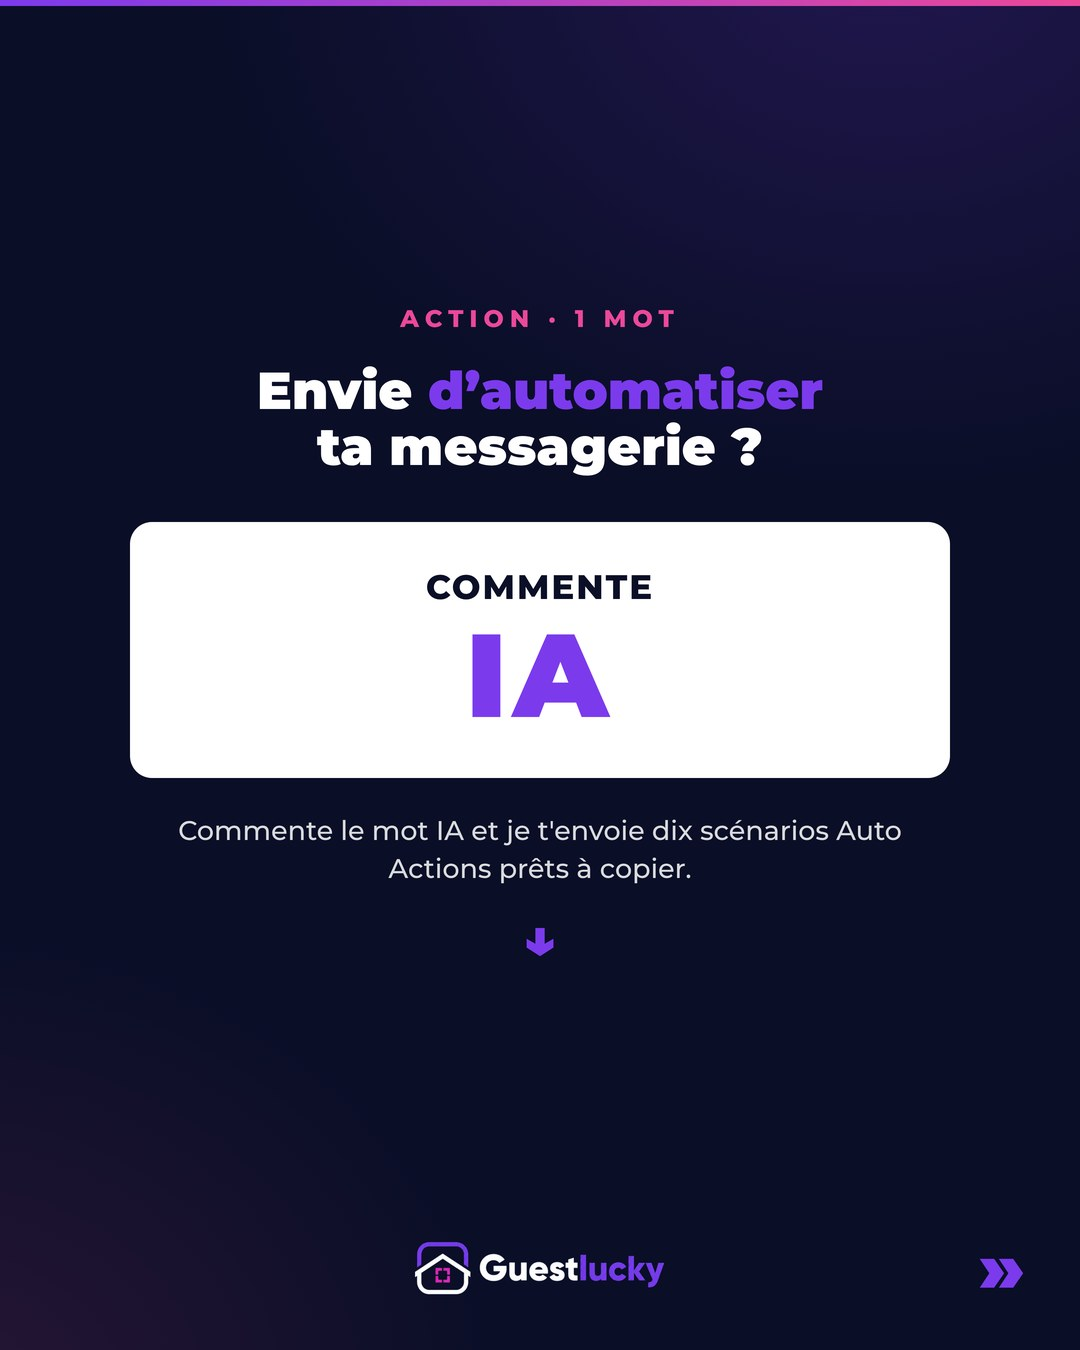
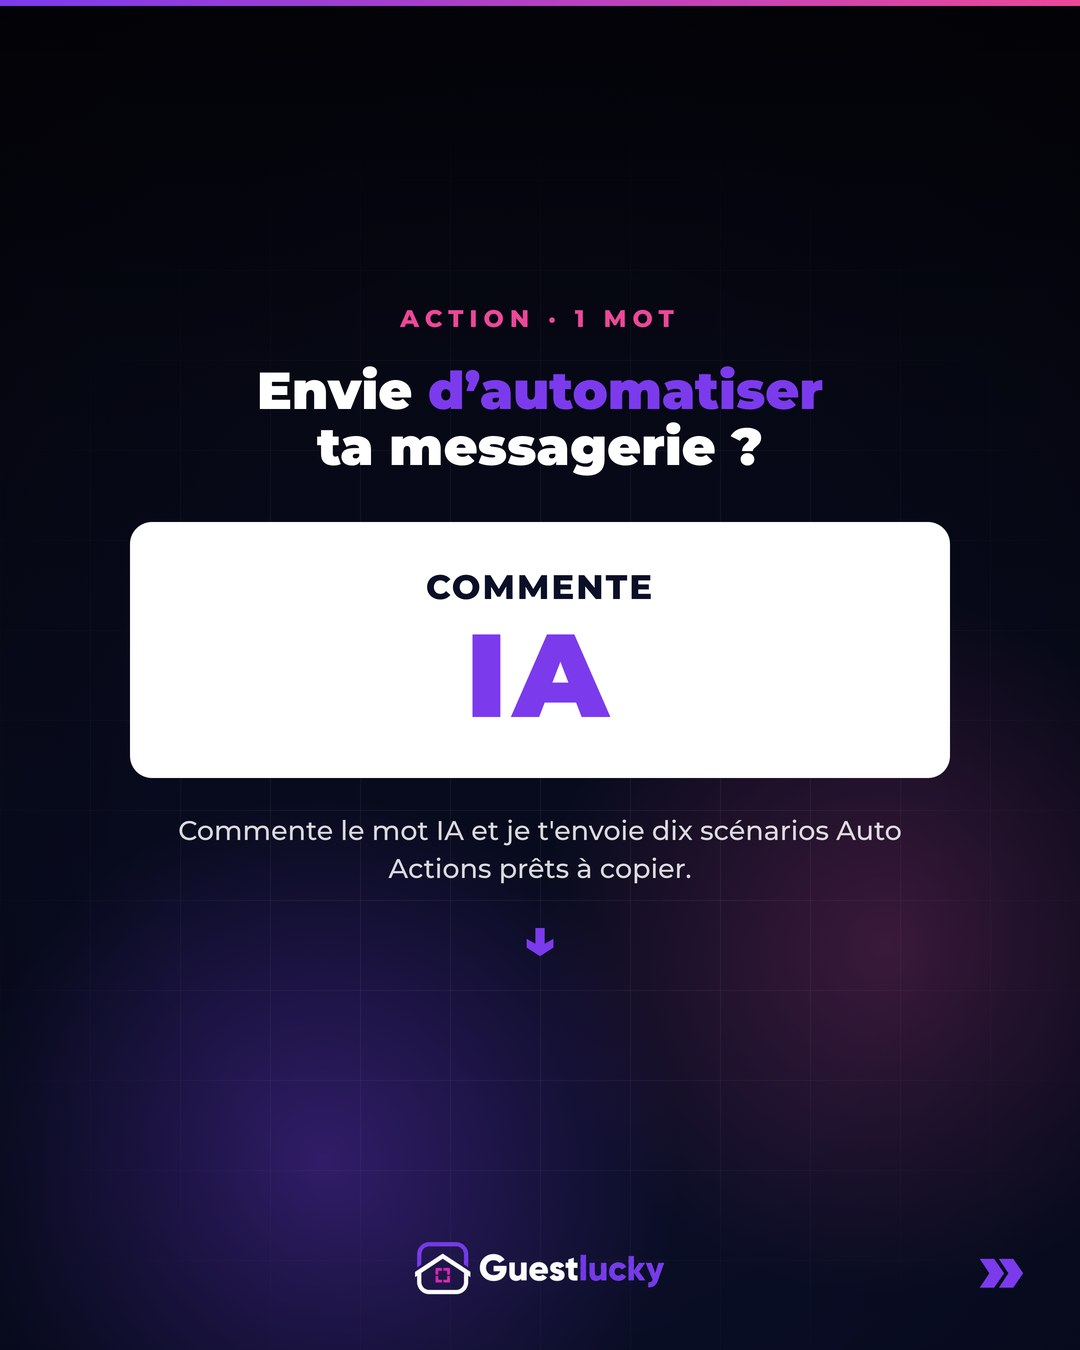
Etape 3 TERMINEE : fonds premium branches dans les slides (HTML/CSS)
- Guestlucky : grille tech + halos violet/rose sur navy + vignette
- Le Sous Loueur : halos doux orange/bleu sur navy + vignette
- Fonds dessines en CSS dans les build scripts -> 0 credit, generes a chaque rendu
- Demos re-rendues et validees : texte lisible, 0 debordement, 0 tiret
- Memoire a jour : Etape 3 finie, prochaine = Etape 4 Metricool

Claude-Session: https://claude.ai/code/session_01TEk97JnoYL2eRuncAvFmE8

diff --git a/pipeline/output/gl_demo_messagerie_ia/html/slide_01.html b/pipeline/output/gl_demo_messagerie_ia/html/slide_01.html
@@ -4,9 +4,19 @@
    -webkit-font-smoothing:antialiased;text-rendering:geometricPrecision;}
 .slide{width:1080px;height:1350px;background:#0a0e27;position:relative;overflow:hidden;color:#ffffff;}
 .bg{position:absolute;inset:0;background:
-  radial-gradient(115% 75% at 82% -5%, rgba(124,58,237,0.20) 0%, rgba(10,14,39,0) 55%),
-  radial-gradient(100% 70% at -5% 105%, rgba(236,72,153,0.13) 0%, rgba(10,14,39,0) 52%),
-  #0a0e27;}
+  radial-gradient(55% 45% at 30% 86%, rgba(124,58,237,0.34) 0%, rgba(10,14,39,0) 60%),
+  radial-gradient(52% 42% at 82% 70%, rgba(236,72,153,0.22) 0%, rgba(10,14,39,0) 62%),
+  linear-gradient(180deg, #05060f 0%, #0a0e27 100%);}
+.bg::before{content:"";position:absolute;inset:0;
+  background-image:
+    linear-gradient(rgba(255,255,255,0.05) 1px, transparent 1px),
+    linear-gradient(90deg, rgba(255,255,255,0.05) 1px, transparent 1px);
+  background-size:90px 90px;
+  -webkit-mask-image:radial-gradient(75% 68% at 50% 58%, #000 30%, transparent 82%);
+          mask-image:radial-gradient(75% 68% at 50% 58%, #000 30%, transparent 82%);}
+.bg::after{content:"";position:absolute;inset:0;background:
+  radial-gradient(82% 78% at 50% 60%, rgba(0,0,0,0) 42%, rgba(0,0,0,0.42) 100%),
+  linear-gradient(180deg, rgba(0,0,0,0.32) 0%, rgba(0,0,0,0) 32%);}
 .topbar{position:absolute;top:0;left:0;right:0;height:6px;
   background:linear-gradient(90deg,#7c3aed 0%,#ec4899 100%);z-index:5;}
 .pad{position:absolute;inset:0;padding:96px 84px 170px;z-index:2;display:flex;flex-direction:column;}

diff --git a/pipeline/output/gl_demo_messagerie_ia/html/slide_02.html b/pipeline/output/gl_demo_messagerie_ia/html/slide_02.html
@@ -4,9 +4,19 @@
    -webkit-font-smoothing:antialiased;text-rendering:geometricPrecision;}
 .slide{width:1080px;height:1350px;background:#0a0e27;position:relative;overflow:hidden;color:#ffffff;}
 .bg{position:absolute;inset:0;background:
-  radial-gradient(115% 75% at 82% -5%, rgba(124,58,237,0.20) 0%, rgba(10,14,39,0) 55%),
-  radial-gradient(100% 70% at -5% 105%, rgba(236,72,153,0.13) 0%, rgba(10,14,39,0) 52%),
-  #0a0e27;}
+  radial-gradient(55% 45% at 30% 86%, rgba(124,58,237,0.34) 0%, rgba(10,14,39,0) 60%),
+  radial-gradient(52% 42% at 82% 70%, rgba(236,72,153,0.22) 0%, rgba(10,14,39,0) 62%),
+  linear-gradient(180deg, #05060f 0%, #0a0e27 100%);}
+.bg::before{content:"";position:absolute;inset:0;
+  background-image:
+    linear-gradient(rgba(255,255,255,0.05) 1px, transparent 1px),
+    linear-gradient(90deg, rgba(255,255,255,0.05) 1px, transparent 1px);
+  background-size:90px 90px;
+  -webkit-mask-image:radial-gradient(75% 68% at 50% 58%, #000 30%, transparent 82%);
+          mask-image:radial-gradient(75% 68% at 50% 58%, #000 30%, transparent 82%);}
+.bg::after{content:"";position:absolute;inset:0;background:
+  radial-gradient(82% 78% at 50% 60%, rgba(0,0,0,0) 42%, rgba(0,0,0,0.42) 100%),
+  linear-gradient(180deg, rgba(0,0,0,0.32) 0%, rgba(0,0,0,0) 32%);}
 .topbar{position:absolute;top:0;left:0;right:0;height:6px;
   background:linear-gradient(90deg,#7c3aed 0%,#ec4899 100%);z-index:5;}
 .pad{position:absolute;inset:0;padding:96px 84px 170px;z-index:2;display:flex;flex-direction:column;}

diff --git a/pipeline/output/gl_demo_messagerie_ia/html/slide_03.html b/pipeline/output/gl_demo_messagerie_ia/html/slide_03.html
@@ -4,9 +4,19 @@
    -webkit-font-smoothing:antialiased;text-rendering:geometricPrecision;}
 .slide{width:1080px;height:1350px;background:#0a0e27;position:relative;overflow:hidden;color:#ffffff;}
 .bg{position:absolute;inset:0;background:
-  radial-gradient(115% 75% at 82% -5%, rgba(124,58,237,0.20) 0%, rgba(10,14,39,0) 55%),
-  radial-gradient(100% 70% at -5% 105%, rgba(236,72,153,0.13) 0%, rgba(10,14,39,0) 52%),
-  #0a0e27;}
+  radial-gradient(55% 45% at 30% 86%, rgba(124,58,237,0.34) 0%, rgba(10,14,39,0) 60%),
+  radial-gradient(52% 42% at 82% 70%, rgba(236,72,153,0.22) 0%, rgba(10,14,39,0) 62%),
+  linear-gradient(180deg, #05060f 0%, #0a0e27 100%);}
+.bg::before{content:"";position:absolute;inset:0;
+  background-image:
+    linear-gradient(rgba(255,255,255,0.05) 1px, transparent 1px),
+    linear-gradient(90deg, rgba(255,255,255,0.05) 1px, transparent 1px);
+  background-size:90px 90px;
+  -webkit-mask-image:radial-gradient(75% 68% at 50% 58%, #000 30%, transparent 82%);
+          mask-image:radial-gradient(75% 68% at 50% 58%, #000 30%, transparent 82%);}
+.bg::after{content:"";position:absolute;inset:0;background:
+  radial-gradient(82% 78% at 50% 60%, rgba(0,0,0,0) 42%, rgba(0,0,0,0.42) 100%),
+  linear-gradient(180deg, rgba(0,0,0,0.32) 0%, rgba(0,0,0,0) 32%);}
 .topbar{position:absolute;top:0;left:0;right:0;height:6px;
   background:linear-gradient(90deg,#7c3aed 0%,#ec4899 100%);z-index:5;}
 .pad{position:absolute;inset:0;padding:96px 84px 170px;z-index:2;display:flex;flex-direction:column;}

diff --git a/pipeline/output/gl_demo_messagerie_ia/html/slide_04.html b/pipeline/output/gl_demo_messagerie_ia/html/slide_04.html
@@ -4,9 +4,19 @@
    -webkit-font-smoothing:antialiased;text-rendering:geometricPrecision;}
 .slide{width:1080px;height:1350px;background:#0a0e27;position:relative;overflow:hidden;color:#ffffff;}
 .bg{position:absolute;inset:0;background:
-  radial-gradient(115% 75% at 82% -5%, rgba(124,58,237,0.20) 0%, rgba(10,14,39,0) 55%),
-  radial-gradient(100% 70% at -5% 105%, rgba(236,72,153,0.13) 0%, rgba(10,14,39,0) 52%),
-  #0a0e27;}
+  radial-gradient(55% 45% at 30% 86%, rgba(124,58,237,0.34) 0%, rgba(10,14,39,0) 60%),
+  radial-gradient(52% 42% at 82% 70%, rgba(236,72,153,0.22) 0%, rgba(10,14,39,0) 62%),
+  linear-gradient(180deg, #05060f 0%, #0a0e27 100%);}
+.bg::before{content:"";position:absolute;inset:0;
+  background-image:
+    linear-gradient(rgba(255,255,255,0.05) 1px, transparent 1px),
+    linear-gradient(90deg, rgba(255,255,255,0.05) 1px, transparent 1px);
+  background-size:90px 90px;
+  -webkit-mask-image:radial-gradient(75% 68% at 50% 58%, #000 30%, transparent 82%);
+          mask-image:radial-gradient(75% 68% at 50% 58%, #000 30%, transparent 82%);}
+.bg::after{content:"";position:absolute;inset:0;background:
+  radial-gradient(82% 78% at 50% 60%, rgba(0,0,0,0) 42%, rgba(0,0,0,0.42) 100%),
+  linear-gradient(180deg, rgba(0,0,0,0.32) 0%, rgba(0,0,0,0) 32%);}
 .topbar{position:absolute;top:0;left:0;right:0;height:6px;
   background:linear-gradient(90deg,#7c3aed 0%,#ec4899 100%);z-index:5;}
 .pad{position:absolute;inset:0;padding:96px 84px 170px;z-index:2;display:flex;flex-direction:column;}

diff --git a/pipeline/output/gl_demo_messagerie_ia/html/slide_05.html b/pipeline/output/gl_demo_messagerie_ia/html/slide_05.html
@@ -4,9 +4,19 @@
    -webkit-font-smoothing:antialiased;text-rendering:geometricPrecision;}
 .slide{width:1080px;height:1350px;background:#0a0e27;position:relative;overflow:hidden;color:#ffffff;}
 .bg{position:absolute;inset:0;background:
-  radial-gradient(115% 75% at 82% -5%, rgba(124,58,237,0.20) 0%, rgba(10,14,39,0) 55%),
-  radial-gradient(100% 70% at -5% 105%, rgba(236,72,153,0.13) 0%, rgba(10,14,39,0) 52%),
-  #0a0e27;}
+  radial-gradient(55% 45% at 30% 86%, rgba(124,58,237,0.34) 0%, rgba(10,14,39,0) 60%),
+  radial-gradient(52% 42% at 82% 70%, rgba(236,72,153,0.22) 0%, rgba(10,14,39,0) 62%),
+  linear-gradient(180deg, #05060f 0%, #0a0e27 100%);}
+.bg::before{content:"";position:absolute;inset:0;
+  background-image:
+    linear-gradient(rgba(255,255,255,0.05) 1px, transparent 1px),
+    linear-gradient(90deg, rgba(255,255,255,0.05) 1px, transparent 1px);
+  background-size:90px 90px;
+  -webkit-mask-image:radial-gradient(75% 68% at 50% 58%, #000 30%, transparent 82%);
+          mask-image:radial-gradient(75% 68% at 50% 58%, #000 30%, transparent 82%);}
+.bg::after{content:"";position:absolute;inset:0;background:
+  radial-gradient(82% 78% at 50% 60%, rgba(0,0,0,0) 42%, rgba(0,0,0,0.42) 100%),
+  linear-gradient(180deg, rgba(0,0,0,0.32) 0%, rgba(0,0,0,0) 32%);}
 .topbar{position:absolute;top:0;left:0;right:0;height:6px;
   background:linear-gradient(90deg,#7c3aed 0%,#ec4899 100%);z-index:5;}
 .pad{position:absolute;inset:0;padding:96px 84px 170px;z-index:2;display:flex;flex-direction:column;}

diff --git a/pipeline/output/gl_demo_messagerie_ia/html/slide_06.html b/pipeline/output/gl_demo_messagerie_ia/html/slide_06.html
@@ -4,9 +4,19 @@
    -webkit-font-smoothing:antialiased;text-rendering:geometricPrecision;}
 .slide{width:1080px;height:1350px;background:#0a0e27;position:relative;overflow:hidden;color:#ffffff;}
 .bg{position:absolute;inset:0;background:
-  radial-gradient(115% 75% at 82% -5%, rgba(124,58,237,0.20) 0%, rgba(10,14,39,0) 55%),
-  radial-gradient(100% 70% at -5% 105%, rgba(236,72,153,0.13) 0%, rgba(10,14,39,0) 52%),
-  #0a0e27;}
+  radial-gradient(55% 45% at 30% 86%, rgba(124,58,237,0.34) 0%, rgba(10,14,39,0) 60%),
+  radial-gradient(52% 42% at 82% 70%, rgba(236,72,153,0.22) 0%, rgba(10,14,39,0) 62%),
+  linear-gradient(180deg, #05060f 0%, #0a0e27 100%);}
+.bg::before{content:"";position:absolute;inset:0;
+  background-image:
+    linear-gradient(rgba(255,255,255,0.05) 1px, transparent 1px),
+    linear-gradient(90deg, rgba(255,255,255,0.05) 1px, transparent 1px);
+  background-size:90px 90px;
+  -webkit-mask-image:radial-gradient(75% 68% at 50% 58%, #000 30%, transparent 82%);
+          mask-image:radial-gradient(75% 68% at 50% 58%, #000 30%, transparent 82%);}
+.bg::after{content:"";position:absolute;inset:0;background:
+  radial-gradient(82% 78% at 50% 60%, rgba(0,0,0,0) 42%, rgba(0,0,0,0.42) 100%),
+  linear-gradient(180deg, rgba(0,0,0,0.32) 0%, rgba(0,0,0,0) 32%);}
 .topbar{position:absolute;top:0;left:0;right:0;height:6px;
   background:linear-gradient(90deg,#7c3aed 0%,#ec4899 100%);z-index:5;}
 .pad{position:absolute;inset:0;padding:96px 84px 170px;z-index:2;display:flex;flex-direction:column;}

diff --git a/pipeline/output/gl_demo_messagerie_ia/html/slide_07.html b/pipeline/output/gl_demo_messagerie_ia/html/slide_07.html
@@ -4,9 +4,19 @@
    -webkit-font-smoothing:antialiased;text-rendering:geometricPrecision;}
 .slide{width:1080px;height:1350px;background:#0a0e27;position:relative;overflow:hidden;color:#ffffff;}
 .bg{position:absolute;inset:0;background:
-  radial-gradient(115% 75% at 82% -5%, rgba(124,58,237,0.20) 0%, rgba(10,14,39,0) 55%),
-  radial-gradient(100% 70% at -5% 105%, rgba(236,72,153,0.13) 0%, rgba(10,14,39,0) 52%),
-  #0a0e27;}
+  radial-gradient(55% 45% at 30% 86%, rgba(124,58,237,0.34) 0%, rgba(10,14,39,0) 60%),
+  radial-gradient(52% 42% at 82% 70%, rgba(236,72,153,0.22) 0%, rgba(10,14,39,0) 62%),
+  linear-gradient(180deg, #05060f 0%, #0a0e27 100%);}
+.bg::before{content:"";position:absolute;inset:0;
+  background-image:
+    linear-gradient(rgba(255,255,255,0.05) 1px, transparent 1px),
+    linear-gradient(90deg, rgba(255,255,255,0.05) 1px, transparent 1px);
+  background-size:90px 90px;
+  -webkit-mask-image:radial-gradient(75% 68% at 50% 58%, #000 30%, transparent 82%);
+          mask-image:radial-gradient(75% 68% at 50% 58%, #000 30%, transparent 82%);}
+.bg::after{content:"";position:absolute;inset:0;background:
+  radial-gradient(82% 78% at 50% 60%, rgba(0,0,0,0) 42%, rgba(0,0,0,0.42) 100%),
+  linear-gradient(180deg, rgba(0,0,0,0.32) 0%, rgba(0,0,0,0) 32%);}
 .topbar{position:absolute;top:0;left:0;right:0;height:6px;
   background:linear-gradient(90deg,#7c3aed 0%,#ec4899 100%);z-index:5;}
 .pad{position:absolute;inset:0;padding:96px 84px 170px;z-index:2;display:flex;flex-direction:column;}

diff --git a/pipeline/output/gl_demo_messagerie_ia/html/slide_08.html b/pipeline/output/gl_demo_messagerie_ia/html/slide_08.html
@@ -4,9 +4,19 @@
    -webkit-font-smoothing:antialiased;text-rendering:geometricPrecision;}
 .slide{width:1080px;height:1350px;background:#0a0e27;position:relative;overflow:hidden;color:#ffffff;}
 .bg{position:absolute;inset:0;background:
-  radial-gradient(115% 75% at 82% -5%, rgba(124,58,237,0.20) 0%, rgba(10,14,39,0) 55%),
-  radial-gradient(100% 70% at -5% 105%, rgba(236,72,153,0.13) 0%, rgba(10,14,39,0) 52%),
-  #0a0e27;}
+  radial-gradient(55% 45% at 30% 86%, rgba(124,58,237,0.34) 0%, rgba(10,14,39,0) 60%),
+  radial-gradient(52% 42% at 82% 70%, rgba(236,72,153,0.22) 0%, rgba(10,14,39,0) 62%),
+  linear-gradient(180deg, #05060f 0%, #0a0e27 100%);}
+.bg::before{content:"";position:absolute;inset:0;
+  background-image:
+    linear-gradient(rgba(255,255,255,0.05) 1px, transparent 1px),
+    linear-gradient(90deg, rgba(255,255,255,0.05) 1px, transparent 1px);
+  background-size:90px 90px;
+  -webkit-mask-image:radial-gradient(75% 68% at 50% 58%, #000 30%, transparent 82%);
+          mask-image:radial-gradient(75% 68% at 50% 58%, #000 30%, transparent 82%);}
+.bg::after{content:"";position:absolute;inset:0;background:
+  radial-gradient(82% 78% at 50% 60%, rgba(0,0,0,0) 42%, rgba(0,0,0,0.42) 100%),
+  linear-gradient(180deg, rgba(0,0,0,0.32) 0%, rgba(0,0,0,0) 32%);}
 .topbar{position:absolute;top:0;left:0;right:0;height:6px;
   background:linear-gradient(90deg,#7c3aed 0%,#ec4899 100%);z-index:5;}
 .pad{position:absolute;inset:0;padding:96px 84px 170px;z-index:2;display:flex;flex-direction:column;}

diff --git a/pipeline/output/gl_demo_messagerie_ia/html/slide_09.html b/pipeline/output/gl_demo_messagerie_ia/html/slide_09.html
@@ -4,9 +4,19 @@
    -webkit-font-smoothing:antialiased;text-rendering:geometricPrecision;}
 .slide{width:1080px;height:1350px;background:#0a0e27;position:relative;overflow:hidden;color:#ffffff;}
 .bg{position:absolute;inset:0;background:
-  radial-gradient(115% 75% at 82% -5%, rgba(124,58,237,0.20) 0%, rgba(10,14,39,0) 55%),
-  radial-gradient(100% 70% at -5% 105%, rgba(236,72,153,0.13) 0%, rgba(10,14,39,0) 52%),
-  #0a0e27;}
+  radial-gradient(55% 45% at 30% 86%, rgba(124,58,237,0.34) 0%, rgba(10,14,39,0) 60%),
+  radial-gradient(52% 42% at 82% 70%, rgba(236,72,153,0.22) 0%, rgba(10,14,39,0) 62%),
+  linear-gradient(180deg, #05060f 0%, #0a0e27 100%);}
+.bg::before{content:"";position:absolute;inset:0;
+  background-image:
+    linear-gradient(rgba(255,255,255,0.05) 1px, transparent 1px),
+    linear-gradient(90deg, rgba(255,255,255,0.05) 1px, transparent 1px);
+  background-size:90px 90px;
+  -webkit-mask-image:radial-gradient(75% 68% at 50% 58%, #000 30%, transparent 82%);
+          mask-image:radial-gradient(75% 68% at 50% 58%, #000 30%, transparent 82%);}
+.bg::after{content:"";position:absolute;inset:0;background:
+  radial-gradient(82% 78% at 50% 60%, rgba(0,0,0,0) 42%, rgba(0,0,0,0.42) 100%),
+  linear-gradient(180deg, rgba(0,0,0,0.32) 0%, rgba(0,0,0,0) 32%);}
 .topbar{position:absolute;top:0;left:0;right:0;height:6px;
   background:linear-gradient(90deg,#7c3aed 0%,#ec4899 100%);z-index:5;}
 .pad{position:absolute;inset:0;padding:96px 84px 170px;z-index:2;display:flex;flex-direction:column;}

diff --git a/pipeline/output/gl_demo_messagerie_ia/html/slide_10.html b/pipeline/output/gl_demo_messagerie_ia/html/slide_10.html
@@ -4,9 +4,19 @@
    -webkit-font-smoothing:antialiased;text-rendering:geometricPrecision;}
 .slide{width:1080px;height:1350px;background:#0a0e27;position:relative;overflow:hidden;color:#ffffff;}
 .bg{position:absolute;inset:0;background:
-  radial-gradient(115% 75% at 82% -5%, rgba(124,58,237,0.20) 0%, rgba(10,14,39,0) 55%),
-  radial-gradient(100% 70% at -5% 105%, rgba(236,72,153,0.13) 0%, rgba(10,14,39,0) 52%),
-  #0a0e27;}
+  radial-gradient(55% 45% at 30% 86%, rgba(124,58,237,0.34) 0%, rgba(10,14,39,0) 60%),
+  radial-gradient(52% 42% at 82% 70%, rgba(236,72,153,0.22) 0%, rgba(10,14,39,0) 62%),
+  linear-gradient(180deg, #05060f 0%, #0a0e27 100%);}
+.bg::before{content:"";position:absolute;inset:0;
+  background-image:
+    linear-gradient(rgba(255,255,255,0.05) 1px, transparent 1px),
+    linear-gradient(90deg, rgba(255,255,255,0.05) 1px, transparent 1px);
+  background-size:90px 90px;
+  -webkit-mask-image:radial-gradient(75% 68% at 50% 58%, #000 30%, transparent 82%);
+          mask-image:radial-gradient(75% 68% at 50% 58%, #000 30%, transparent 82%);}
+.bg::after{content:"";position:absolute;inset:0;background:
+  radial-gradient(82% 78% at 50% 60%, rgba(0,0,0,0) 42%, rgba(0,0,0,0.42) 100%),
+  linear-gradient(180deg, rgba(0,0,0,0.32) 0%, rgba(0,0,0,0) 32%);}
 .topbar{position:absolute;top:0;left:0;right:0;height:6px;
   background:linear-gradient(90deg,#7c3aed 0%,#ec4899 100%);z-index:5;}
 .pad{position:absolute;inset:0;padding:96px 84px 170px;z-index:2;display:flex;flex-direction:column;}

diff --git a/pipeline/output/lsl_demo_relation_voyageurs/html/slide_01.html b/pipeline/output/lsl_demo_relation_voyageurs/html/slide_01.html
@@ -4,9 +4,13 @@
    -webkit-font-smoothing:antialiased;text-rendering:geometricPrecision;}
 .slide{width:1080px;height:1350px;background:#0d1b2e;position:relative;overflow:hidden;color:#ffffff;}
 .bg{position:absolute;inset:0;background:
-  radial-gradient(115% 75% at 84% -5%, rgba(232,86,31,0.16) 0%, rgba(13,27,46,0) 55%),
-  radial-gradient(100% 70% at -5% 105%, rgba(32,134,200,0.16) 0%, rgba(13,27,46,0) 52%),
-  #0d1b2e;}
+  radial-gradient(60% 46% at 28% 82%, rgba(232,86,31,0.30) 0%, rgba(13,27,46,0) 60%),
+  radial-gradient(55% 42% at 82% 70%, rgba(32,134,200,0.24) 0%, rgba(13,27,46,0) 62%),
+  radial-gradient(52% 42% at 60% 106%, rgba(232,86,31,0.20) 0%, rgba(13,27,46,0) 65%),
+  linear-gradient(180deg, #081320 0%, #0d1b2e 100%);}
+.bg::after{content:"";position:absolute;inset:0;background:
+  radial-gradient(82% 78% at 50% 60%, rgba(0,0,0,0) 42%, rgba(0,0,0,0.42) 100%),
+  linear-gradient(180deg, rgba(0,0,0,0.30) 0%, rgba(0,0,0,0) 32%);}
 .topbar{position:absolute;top:0;left:0;right:0;height:6px;
   background:linear-gradient(90deg,#2086C8 0%,#5fa0d0 50%,#E8561F 100%);z-index:5;}
 .pad{position:absolute;inset:0;padding:96px 84px 170px;z-index:2;display:flex;flex-direction:column;}

diff --git a/pipeline/output/lsl_demo_relation_voyageurs/html/slide_02.html b/pipeline/output/lsl_demo_relation_voyageurs/html/slide_02.html
@@ -4,9 +4,13 @@
    -webkit-font-smoothing:antialiased;text-rendering:geometricPrecision;}
 .slide{width:1080px;height:1350px;background:#0d1b2e;position:relative;overflow:hidden;color:#ffffff;}
 .bg{position:absolute;inset:0;background:
-  radial-gradient(115% 75% at 84% -5%, rgba(232,86,31,0.16) 0%, rgba(13,27,46,0) 55%),
-  radial-gradient(100% 70% at -5% 105%, rgba(32,134,200,0.16) 0%, rgba(13,27,46,0) 52%),
-  #0d1b2e;}
+  radial-gradient(60% 46% at 28% 82%, rgba(232,86,31,0.30) 0%, rgba(13,27,46,0) 60%),
+  radial-gradient(55% 42% at 82% 70%, rgba(32,134,200,0.24) 0%, rgba(13,27,46,0) 62%),
+  radial-gradient(52% 42% at 60% 106%, rgba(232,86,31,0.20) 0%, rgba(13,27,46,0) 65%),
+  linear-gradient(180deg, #081320 0%, #0d1b2e 100%);}
+.bg::after{content:"";position:absolute;inset:0;background:
+  radial-gradient(82% 78% at 50% 60%, rgba(0,0,0,0) 42%, rgba(0,0,0,0.42) 100%),
+  linear-gradient(180deg, rgba(0,0,0,0.30) 0%, rgba(0,0,0,0) 32%);}
 .topbar{position:absolute;top:0;left:0;right:0;height:6px;
   background:linear-gradient(90deg,#2086C8 0%,#5fa0d0 50%,#E8561F 100%);z-index:5;}
 .pad{position:absolute;inset:0;padding:96px 84px 170px;z-index:2;display:flex;flex-direction:column;}
